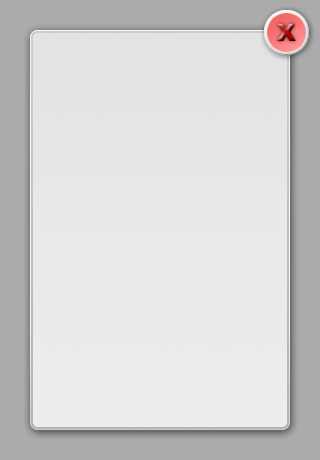
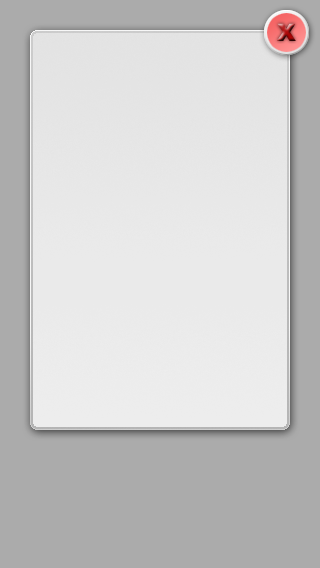
some 4in stuff

Changed region(s): [[0.0625, 0.7304, 0.9375, 0.9435], [0.0938, 0.0, 0.9688, 0.1522]]

diff --git a/Classes/DungeonViewController.m b/Classes/DungeonViewController.m
@@ -39,7 +39,7 @@ static volatile BOOL solving_in_progress = NO;
 		[contentView release];
 		
 		/* Nav view */
-		nav_view = [[NavigationControlView alloc] initWithFrame:CGRectMake(0, kNavConViewYCoord + kNavConViewHeight, self.view.frame.size.width, kNavConViewHeight)];
+		nav_view = [[NavigationControlView alloc] initWithFrame:CGRectMake(0, ([Globals isScreen35] ? 0 : 64) + kNavConViewYCoord + kNavConViewHeight, self.view.frame.size.width, kNavConViewHeight)];
 		nav_view.gestureDelegate = self;
 		[contentView addSubview:nav_view];
 		[nav_view changeToHandedness:[GameStateModel getRightHanded] animated:NO];
@@ -49,12 +49,12 @@ static volatile BOOL solving_in_progress = NO;
 		[contentView addSubview:status_view];
 		
 		/* Map View */
-		map_view = [[MapView alloc] initWithFrame:CGRectMake(0, 20, 320, 320)];
+		map_view = [[MapView alloc] initWithFrame:CGRectMake(0, [Globals isScreen35] ? 20 : 44, 320, 320)];
 		map_view.gestureDelegate = self;
 		[contentView addSubview:map_view];
 		
 		/* Tutorial View */
-		tutorial_view = [[TutorialView alloc] initWithFrame:CGRectMake(0, 180, 320, 160)];
+		tutorial_view = [[TutorialView alloc] initWithFrame:CGRectMake(0, [Globals isScreen35] ? 180 : 204, 320, 160)];
 		tutorial_view.hidden = YES;
 		[contentView addSubview:tutorial_view];
 		[tutorial_view release];

diff --git a/Classes/TheseusAppDelegate.m b/Classes/TheseusAppDelegate.m
@@ -68,6 +68,10 @@ void uncaughtExceptionHandler(NSException *exception) {
 	window.backgroundColor = [UIColor blackColor];
 	
 	//[window addSubview:[DungeonViewController sharedInstance].view];
+	CGRect f = window.frame;
+	f.size.height = [UIScreen mainScreen].bounds.size.height;
+	window.frame = f;
+	
 	[window addSubview:[FlourishController sharedInstance].view];
 	//window.rootViewController = [FlourishController sharedInstance];
 	

diff --git a/Classes/CreditsView.m b/Classes/CreditsView.m
@@ -19,7 +19,7 @@
 		
 		/* Background */
 		backgnd = [[UIImageView alloc] initWithImage:[UIImage imageNamed:@"credits_bubble.png"]];
-		backgnd.frame = CGRectMake(0, 0, self.frame.size.width, self.frame.size.height);
+		backgnd.frame = CGRectMake(0, 0, self.frame.size.width, 568);//self.frame.size.height);
 		[self addSubview:backgnd];
 		[backgnd release];
 		

diff --git a/Classes/OptionsView.m b/Classes/OptionsView.m
@@ -20,7 +20,7 @@
 		
 		/* Background */
 		backgnd = [[UIImageView alloc] initWithImage:[UIImage imageNamed:@"options_bubble.png"]];
-		backgnd.frame = CGRectMake(0, 0, self.frame.size.width, self.frame.size.height);
+		backgnd.frame = CGRectMake(0, 0, self.frame.size.width, 568);//self.frame.size.height);
 		[self addSubview:backgnd];
 		[backgnd release];
 		

diff --git a/Classes/OptionsView.h b/Classes/OptionsView.h
@@ -22,8 +22,8 @@ typedef enum {
 
 #define kOptionsFlourishDuration 0.25
 
-#define kYOffset 100.0
-#define kYStart 33.0
+#define kYOffset 95.0
+#define kYStart 43.0
 
 #define kSoundMult 0
 #define kIdleMult  1

diff --git a/Classes/MapView.m b/Classes/MapView.m
@@ -141,6 +141,8 @@
 		rval.x = rad * (tx / ty);
 	}
 	
+	rval.y *= 1.2;
+	
 	rval.x += (self.frame.size.width / 2);
 	rval.y += (self.frame.size.height / 2);
 	return rval;
